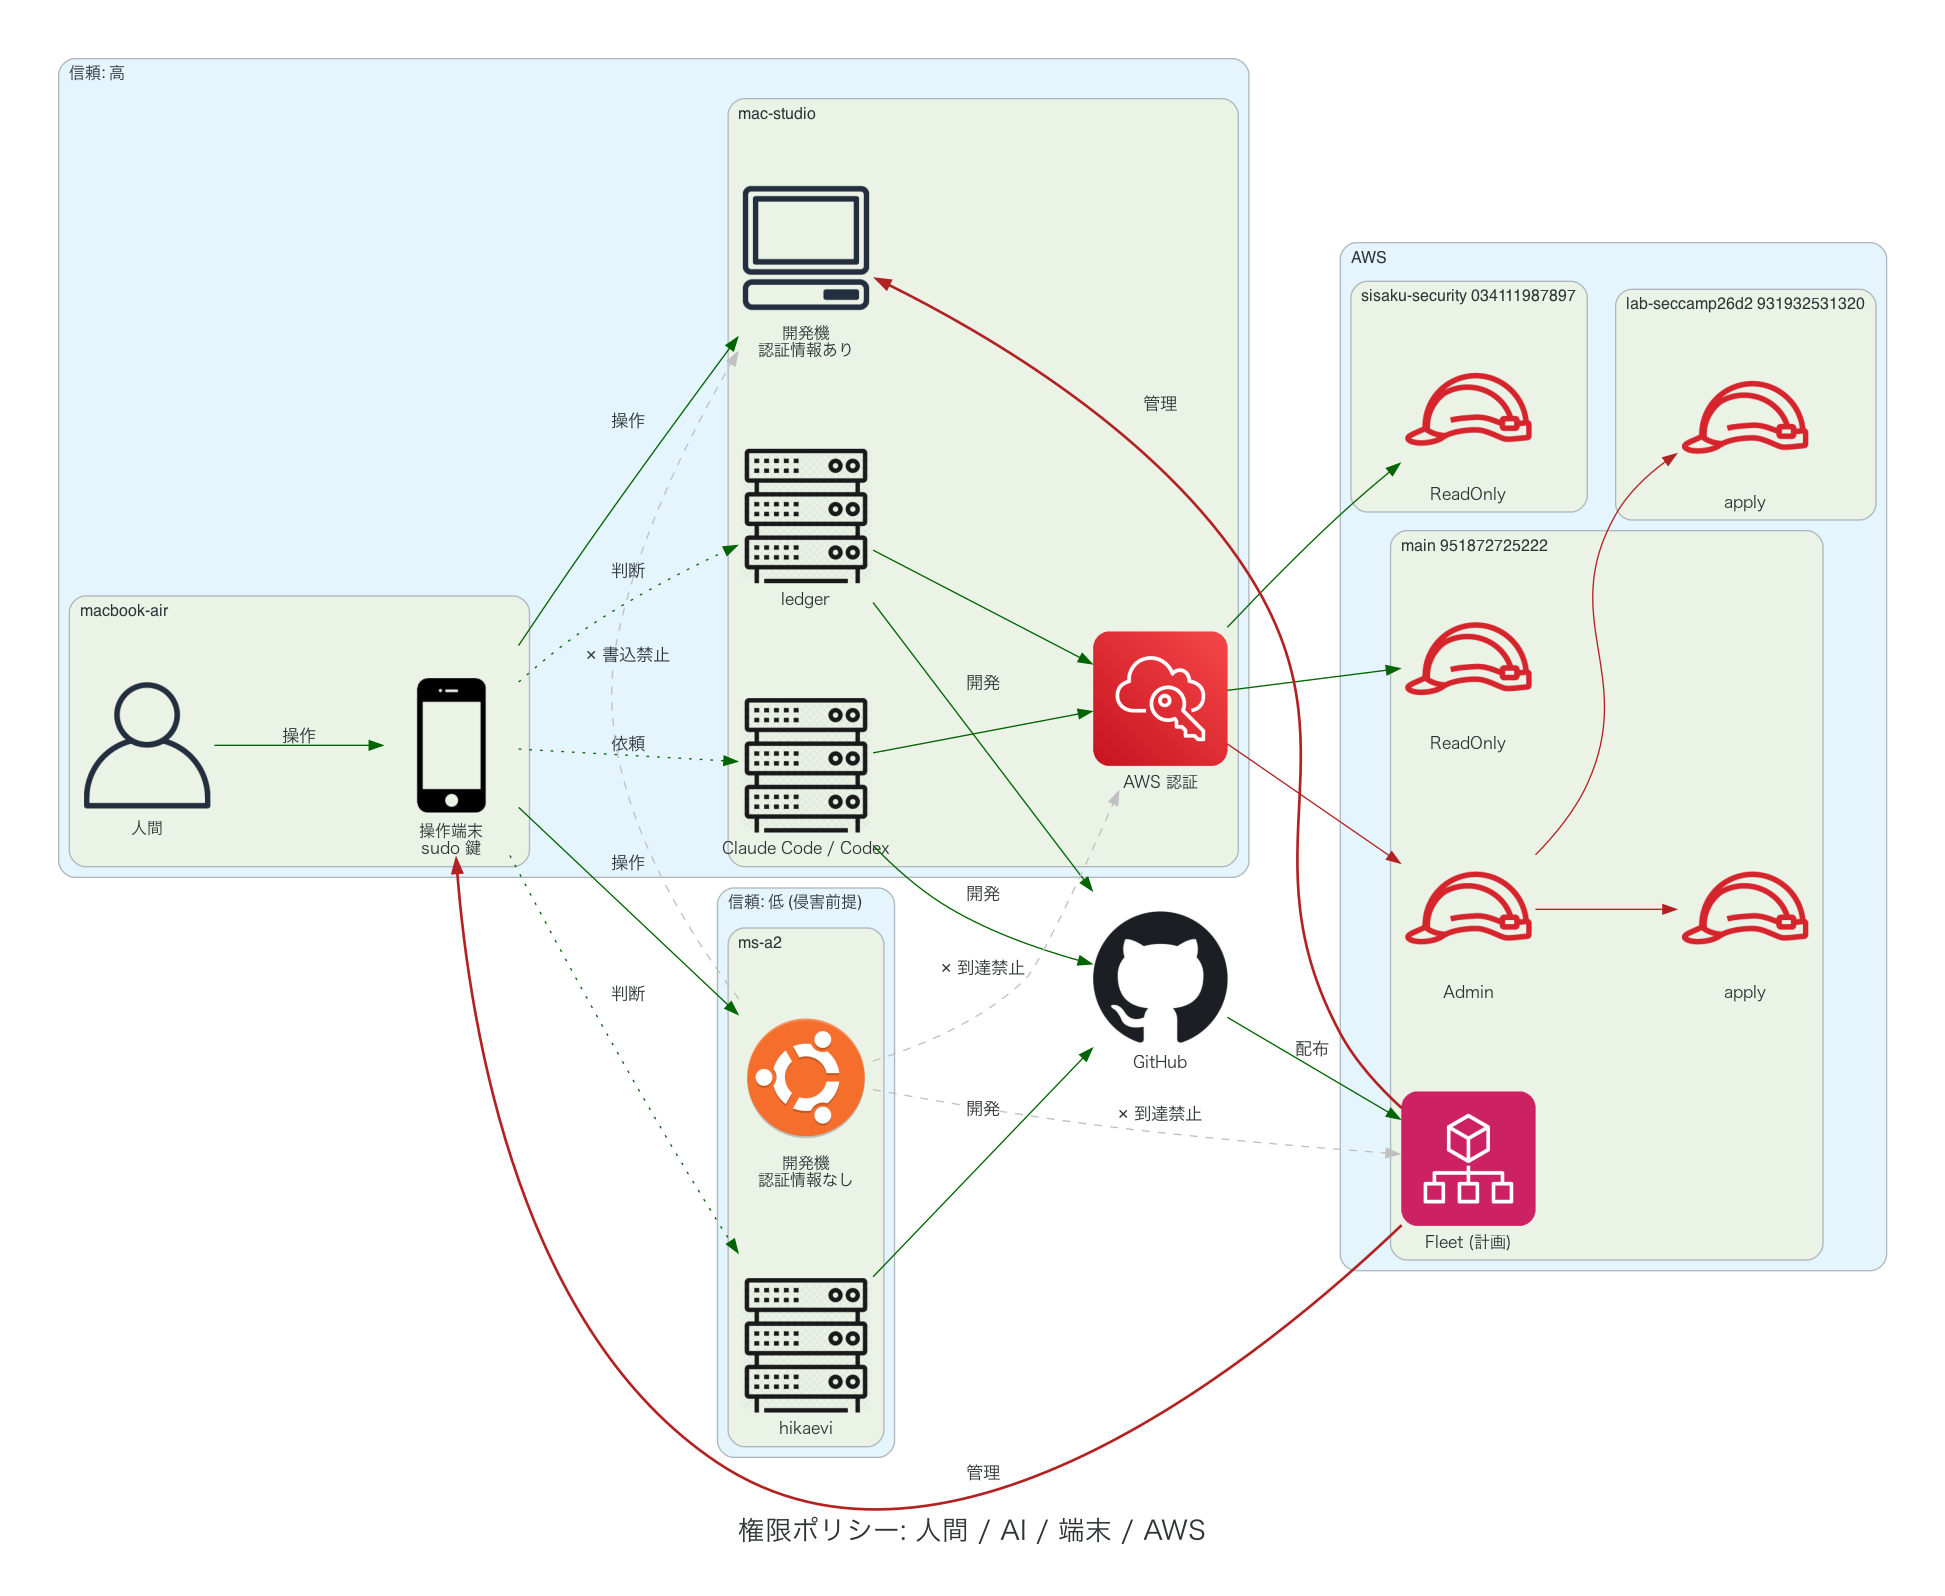
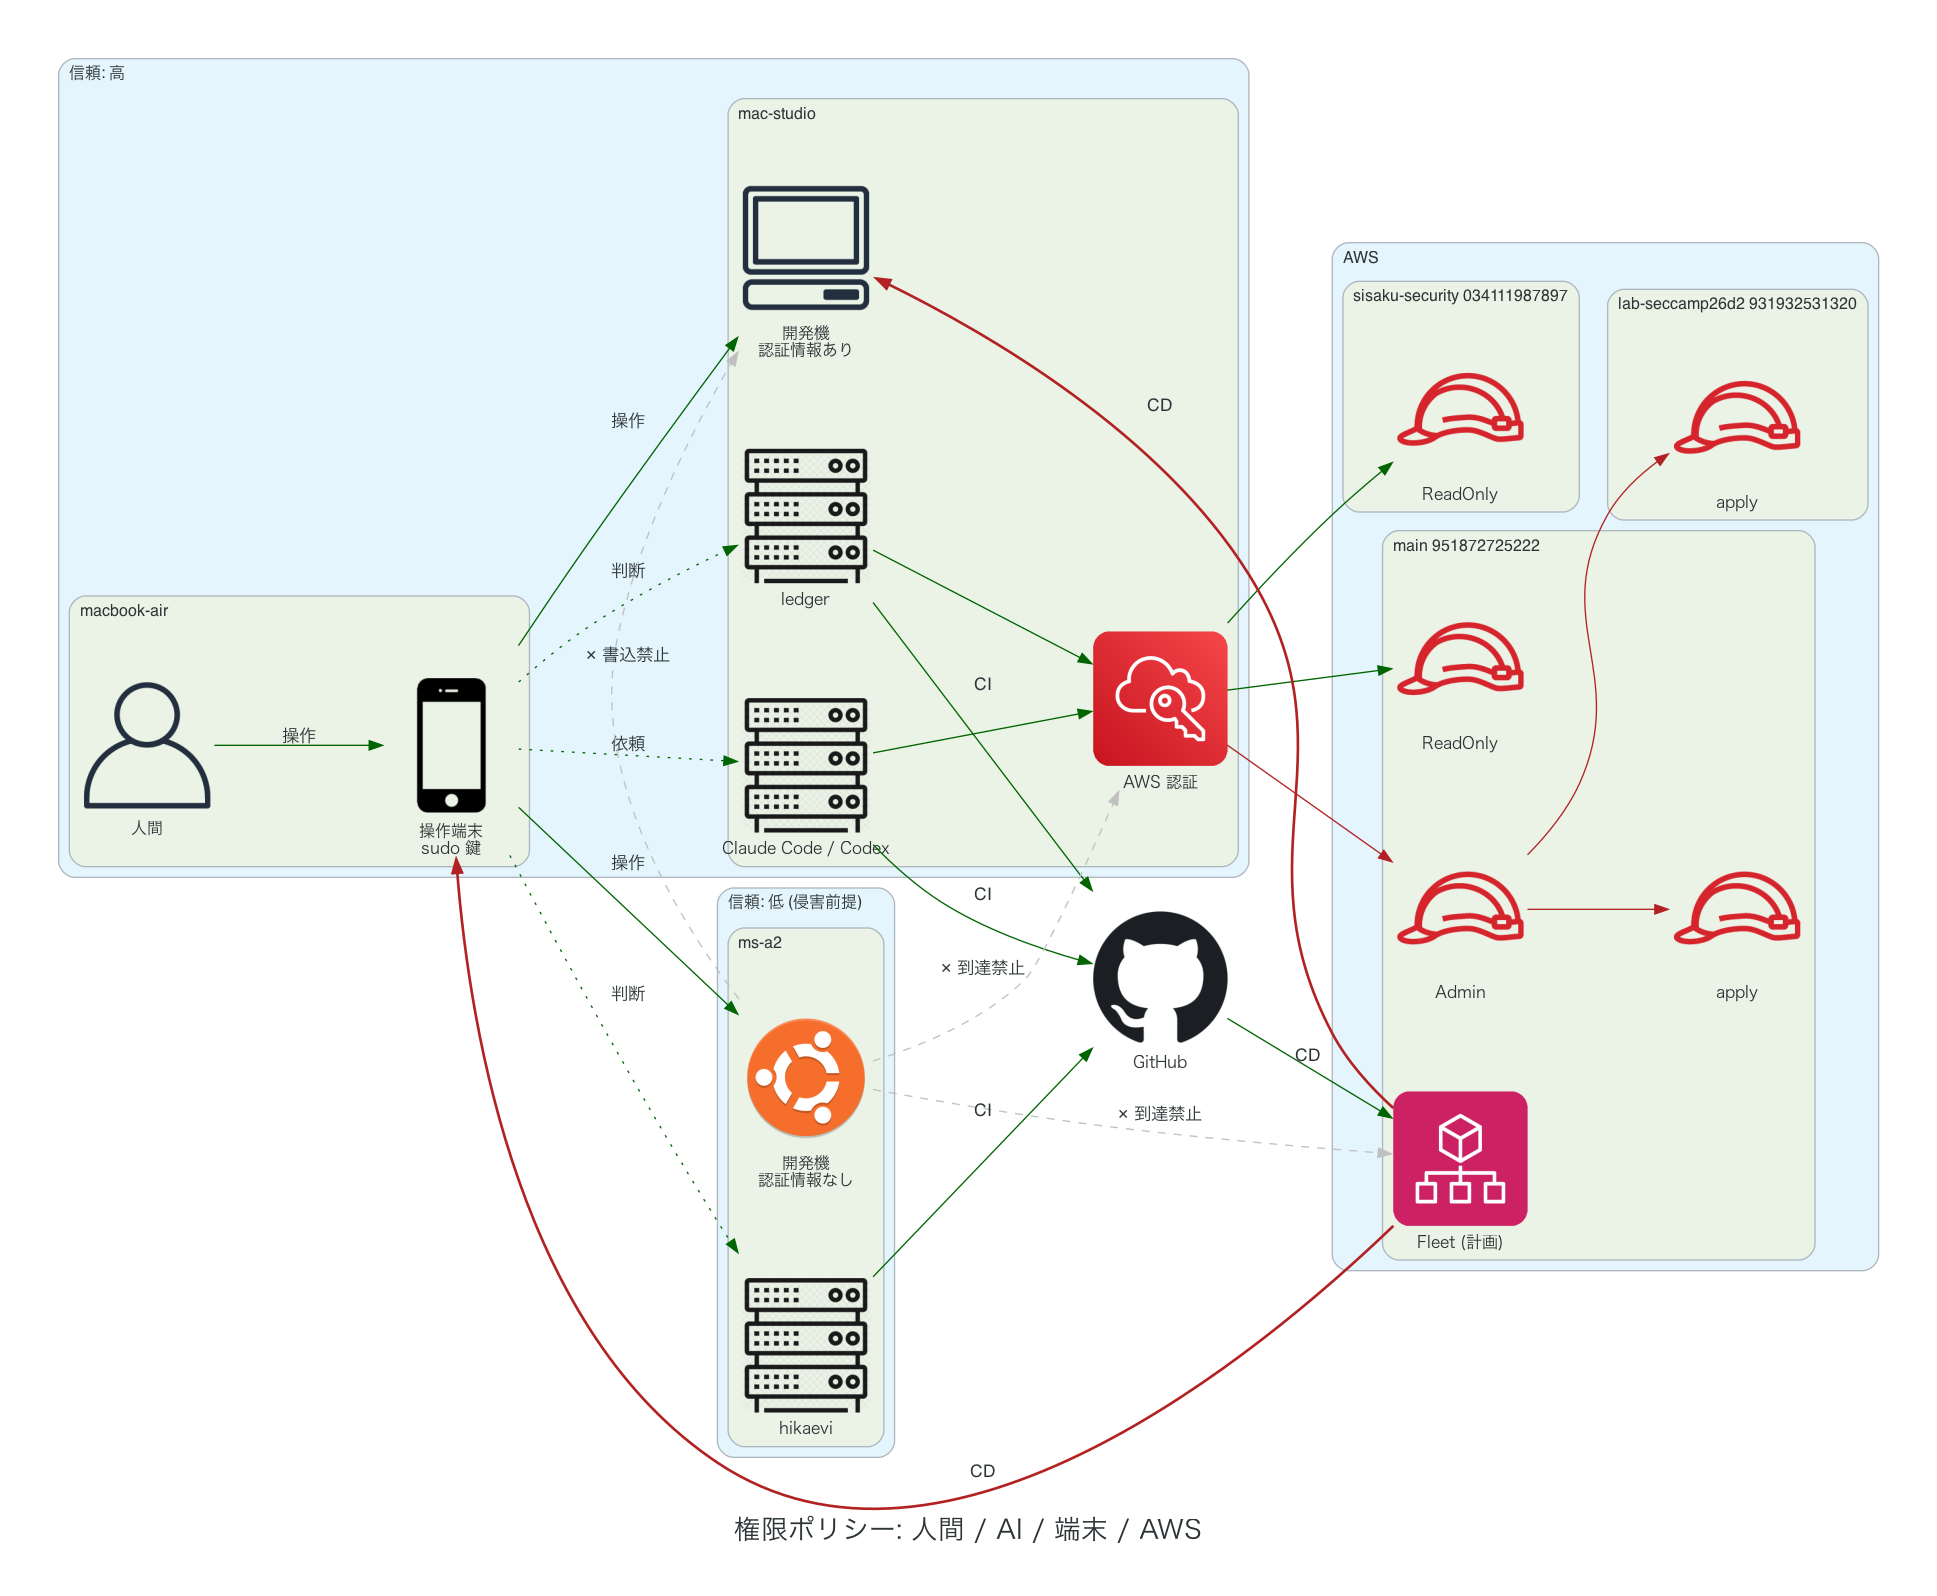
docs: 権限ポリシー図の GitHub 経路を CI / CD で表す

diff --git a/docs/security/policy_diagram.py b/docs/security/policy_diagram.py
@@ -73,9 +73,9 @@ with Diagram(
     air >> Edge(color=ALLOW, style="dotted", label="判断") >> ledger
     air >> Edge(color=ALLOW, style="dotted", label="判断") >> hikaevi
 
-    ai >> Edge(color=ALLOW, label="開発") >> gh
-    ledger >> Edge(color=ALLOW, label="開発") >> gh
-    hikaevi >> Edge(color=ALLOW, label="開発") >> gh
+    ai >> Edge(color=ALLOW, label="CI") >> gh
+    ledger >> Edge(color=ALLOW, label="CI") >> gh
+    hikaevi >> Edge(color=ALLOW, label="CI") >> gh
     ai >> Edge(color=ALLOW) >> broker
     ledger >> Edge(color=ALLOW) >> broker
     broker >> Edge(color=ALLOW) >> ro
@@ -83,9 +83,9 @@ with Diagram(
     admin >> Edge(color=ROOT) >> apply
     admin >> Edge(color=ROOT) >> lab
     broker >> Edge(color=ALLOW) >> sisaku
-    gh >> Edge(color=ALLOW, label="配布") >> fleet
-    fleet >> Edge(color=ROOT, style="bold", label="管理") >> air
-    fleet >> Edge(color=ROOT, style="bold", label="管理") >> studio
+    gh >> Edge(color=ALLOW, label="CD") >> fleet
+    fleet >> Edge(color=ROOT, style="bold", label="CD") >> air
+    fleet >> Edge(color=ROOT, style="bold", label="CD") >> studio
 
     for dst, why in [(studio, "書込禁止"), (broker, "到達禁止"), (fleet, "到達禁止")]:
         msa2 >> Edge(color=DENY, style="dashed", label=f"✕ {why}") >> dst
